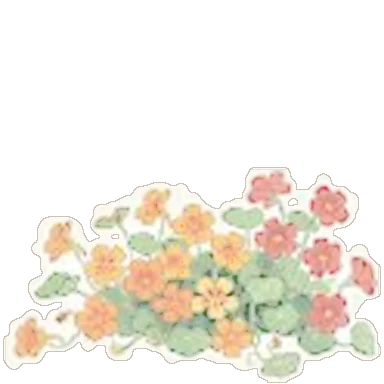
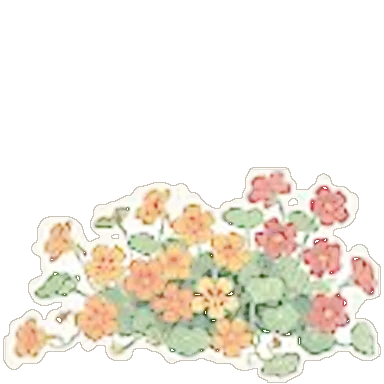
Sharper die-cut pieces; poppy-field tree moved off the painted one
Claude-Session: https://claude.ai/code/session_01L1gWQ5CuQAPXZzGU2McvRg

diff --git a/lib/monet.ts b/lib/monet.ts
@@ -57,7 +57,7 @@ export const MONET_ROOMS: MonetRoom[] = [
     floor: `${M}poppies-floor.webp`,
     popups: [
       pop("p-house", 0.13, 0.5, 0.16),
-      pop("p-tree", 0.74, 0.56, -0.13),
+      pop("p-tree", 0.7, 0.56, -0.22),
       pop("p-pair", 0.12, 0.72, 0.3),
       pop("p-row1", 0.26, 0.95, -0.04),
       pop("p-camille", 0.58, 1.1, 0.2, true),
